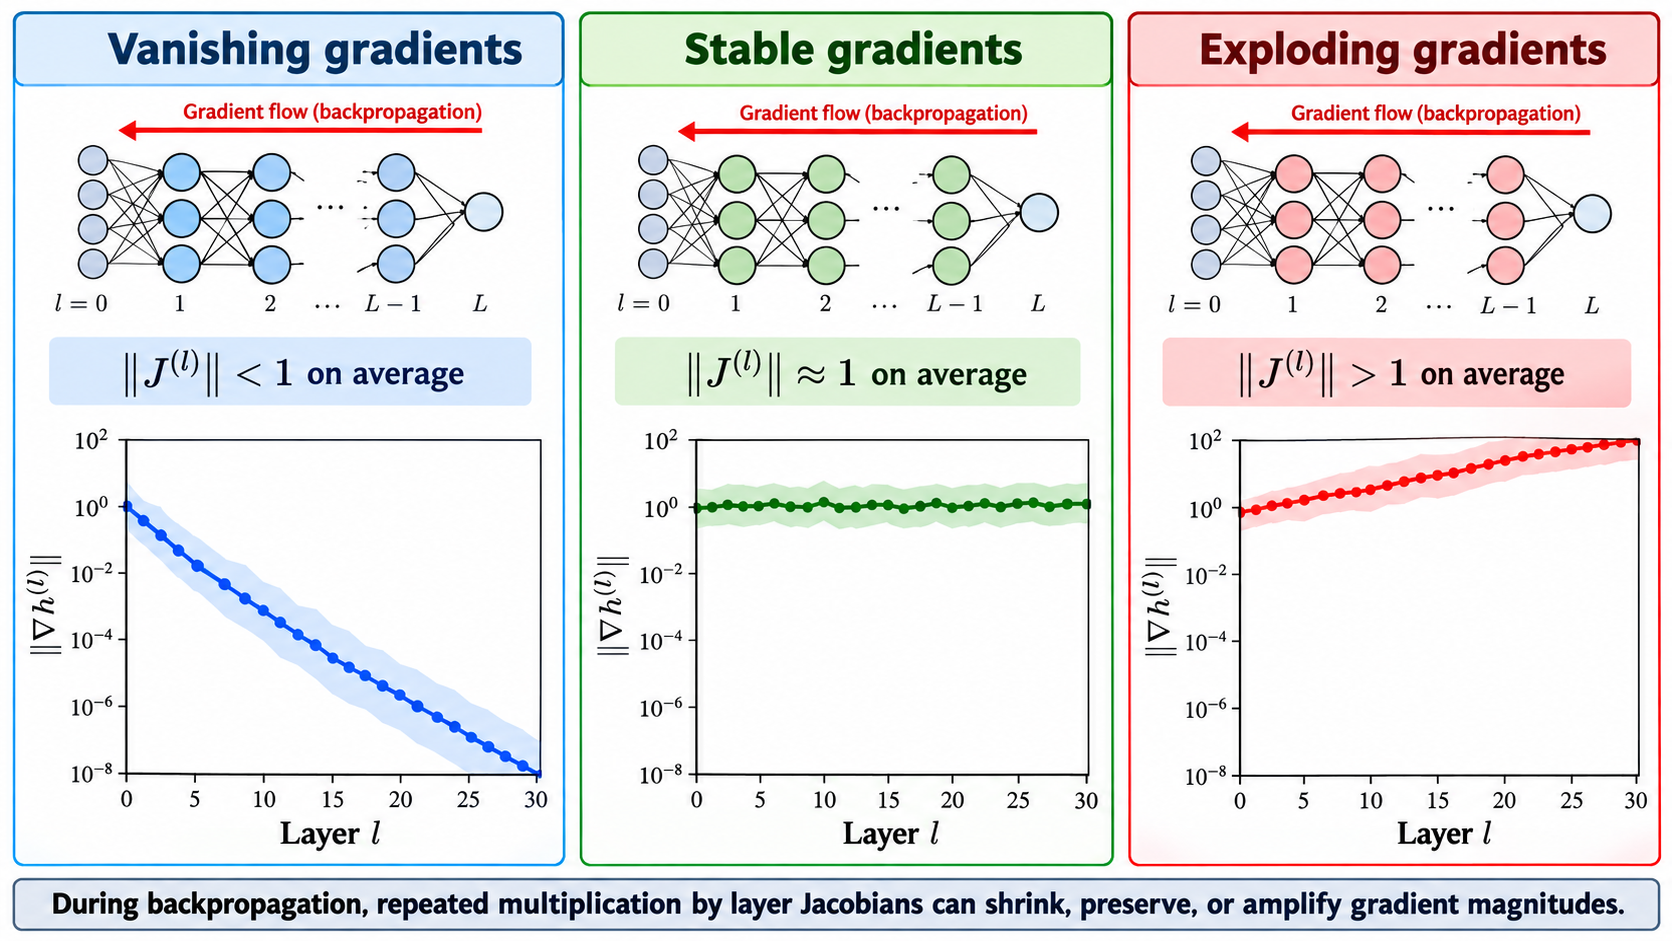
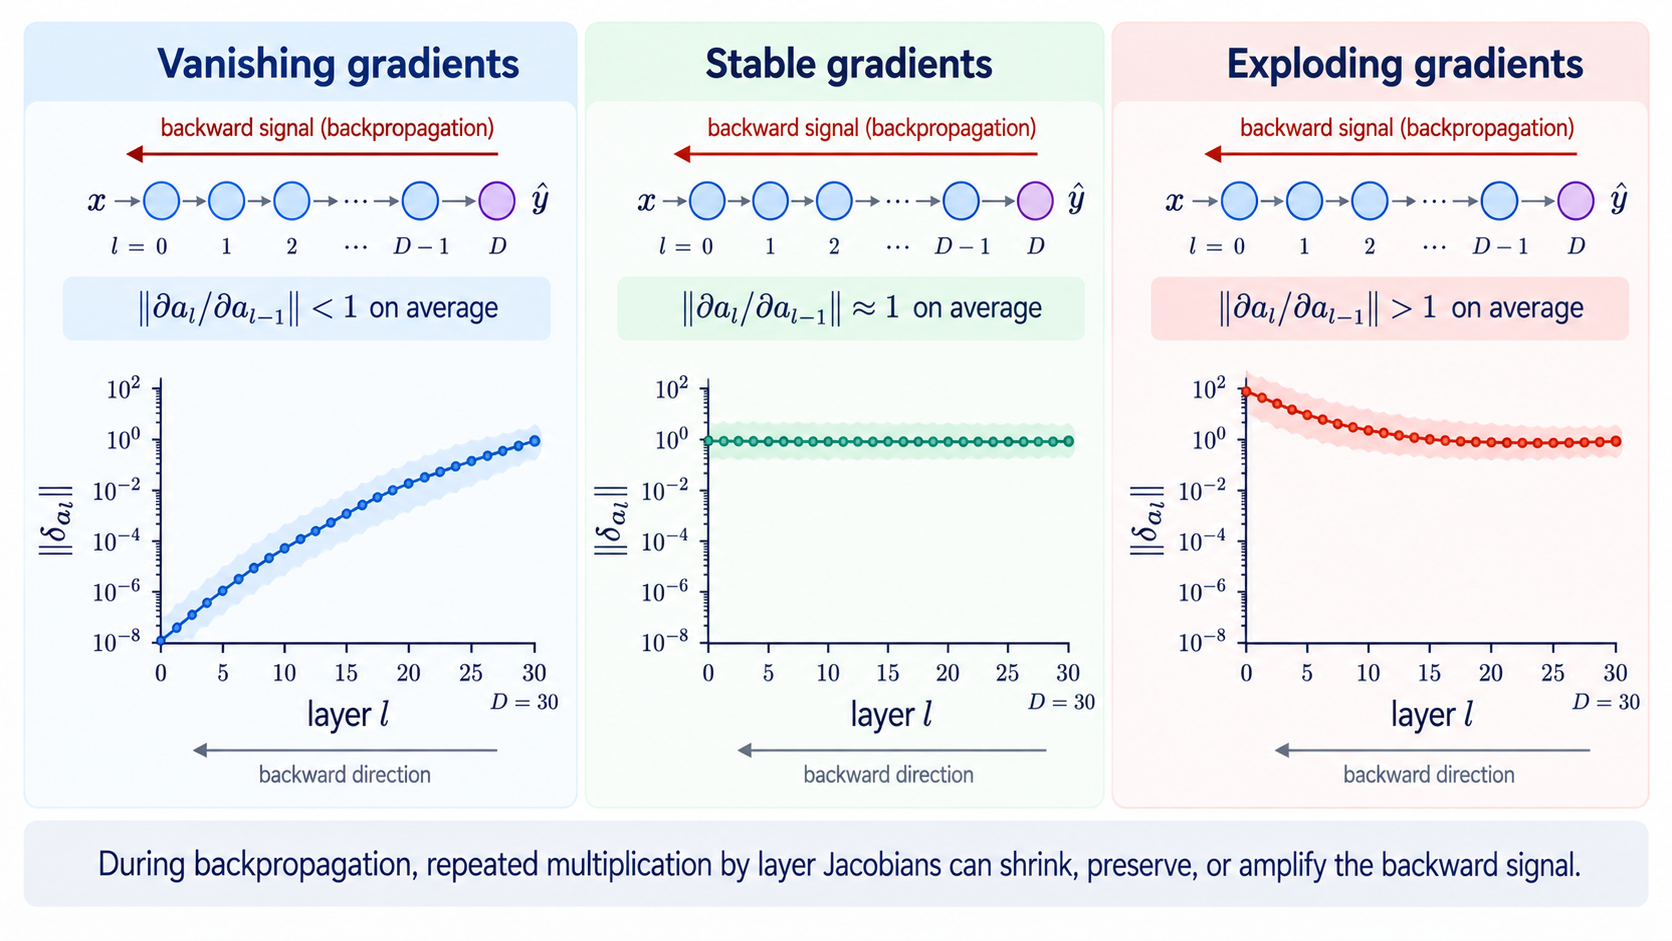
S02: replace F04 with corrected version (backward direction, D, delta notation)
Claude-Session: https://claude.ai/code/session_012SkrgDu3HsLNCjj3PJkQW9

diff --git a/sessions/02_deep_training/figures/figures.md b/sessions/02_deep_training/figures/figures.md
@@ -19,7 +19,7 @@ Pending figures are HTML comments in the slide source (`<!-- Pending figure: ...
 | **S02-F01** | V04 | From the single learning loop to a deep trainable system | `s02_f01_learning_to_deep_training.png` | PNG | Included |
 | **S02-F02** | V10 | Activation distributions propagating through many layers | `s02_f02_signal_propagation.png` | PNG | Included |
 | **S02-F03** | V30 | Vanishing, stable and exploding activation scales across depth | `s02_f03_activation_scale_depth.png` | PNG / plot | Covered by S02-A01 |
-| **S02-F04** | V16 | Gradient norm versus layer depth for vanishing, stable and exploding regimes | `s02_f04_gradient_norm_depth.png` | PNG | Included — gradient direction reversed; explain with A01 |
+| **S02-F04** | V16 | Gradient norm versus layer depth for vanishing, stable and exploding regimes | `s02_f04_gradient_norm_depth.png` | PNG | Included |
 | **S02-F05** | V18 | Sigmoid, tanh and ReLU: functions and derivative regions | `s02_f05_activation_derivatives.png` | PNG | Included |
 | **S02-F06** | V24 | Symmetry problem when hidden units share identical initialization | `s02_f06_initialization_symmetry.png` | PNG / SVG | Included |
 | **S02-F07** | V29 | Naive, Xavier and He initialization compared through activation variance | `s02_f07_initialization_variance.png` | PNG | Included — needs correction to deck Xavier variance |
@@ -45,7 +45,6 @@ Pending figures are HTML comments in the slide source (`<!-- Pending figure: ...
 
 ## Review notes
 
-- **S02-F04:** the static figure reverses the backpropagation direction. Gradients originate at the output ($l=D$) and propagate toward the input ($l=0$). In the vanishing case the norm should be smallest near $l=0$; in the exploding case it should be largest near $l=0$. **S02-A01 is correct and should be used for explanation.**
 - **S02-F07:** the Xavier panel currently labels $W\\sim\\mathcal N(0,1/n_\\text{in})$, while the deck derives $\\operatorname{Var}(W)=2/(n_\\text{in}+n_\\text{out})$. The shown stable behavior is also inconsistent with a ReLU network, where Xavier would halve the variance approximately layer by layer. The small-initialization activation axis repeats $10^{-2}$.
 - **S02-F25 / S02-F26:** these use superscript notation ($a^{(l)}$, $h^{(l)}$, $\\mathcal L$) and $L$ for depth, while the deck uses $a_l$, $D$ and $J$. F26's Jacobian product also requires transposes under the column-vector convention used in the deck.
 

diff --git a/sessions/02_deep_training/figures/figure_prompts.md b/sessions/02_deep_training/figures/figure_prompts.md
@@ -31,7 +31,7 @@ Slide numbers refer to the current `../slides/S02_slides.marp.md`.
 | S02-F24 | Label-preserving data augmentation | done |
 | S02-F01 | Correction: typo and logo fixed; script 𝒥 remains (optional regeneration) | done |
 | S02-F02 | Correction: std(x) label and consistent numbers | done |
-| S02-F04 | Correction: backward direction and notation | **pending** |
+| S02-F04 | Correction: backward direction and notation | done |
 | S02-F07 | Correction: Xavier variance, tanh vs ReLU | **pending** |
 
 ## Common style block (prepend to every prompt)
@@ -337,7 +337,7 @@ Keep the current layout: top band with the network and $a_l=\mathrm{ReLU}(W_l a_
 
 **Check:** the He row shows the same number (0.82) in all four layers; the input column says std(x).
 
-## S02-F04 · Gradient norm through depth — correction (slide 16)
+## S02-F04 · Gradient norm through depth — correction (done)
 
 File: `s02_f04_gradient_norm_depth.png`
 
